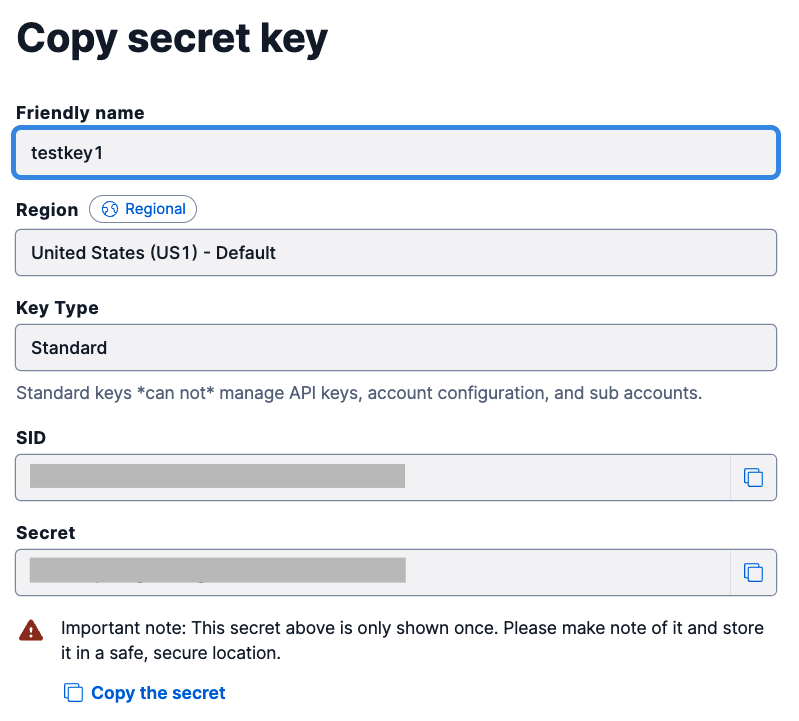
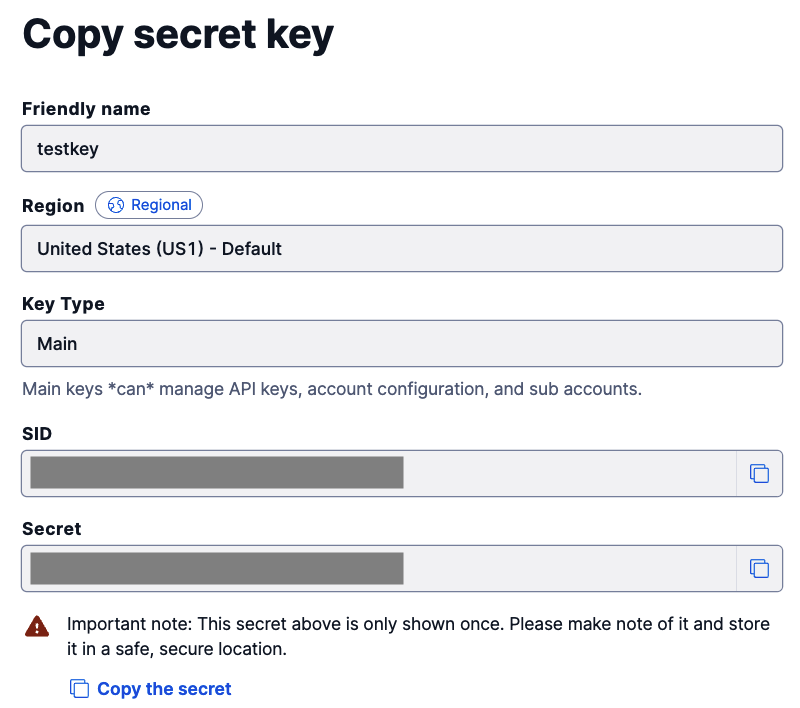
Twilio API Key Update

Changed region(s): [[0.0, 0.5904, 0.9912, 0.9944], [0.0, 0.1243, 0.9912, 0.5593], [0.0, 0.0, 0.4205, 0.0932]]

diff --git a/src/engage/overview/onboarding.md b/src/engage/overview/onboarding.md
@@ -176,7 +176,7 @@ Start by creating your Twilio account and getting an API key for Engage:
 2. In your Twilio console, select the **Account** dropdown menu, then **API keys & tokens**.
 3. On the Auth Tokens & API Keys page, click **Create API key**.
 4. Enter a name for the API key in the **Friendly name** field.
-5. Set the region to **United States (US1) - Default** and key type to **Standard**.
+5. Set the region to **United States (US1) - Default** and key type to **Main**.
 6. Click **Create API Key**.
 7. Copy both the **SID** and **Secret** field contents.
 
